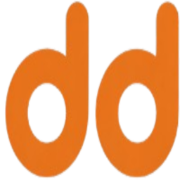
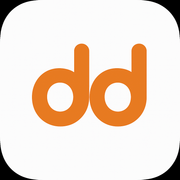
feat: Manifest 개선 (#294) (#299)
* feat: PWA Manifest 개선 - maskable icons, screenshots, shortcuts 추가 (#294)

* remove: 필요없는 스크린샷 이미지 제거 (#294)

* chore: 아이콘 이미지 고품질로 변경 (#294)

* chore: viewport 기본 테마 색상 수정 (#294)

* fix: 과한 설정값 제거 및 관련 주석 추가 (#294)

diff --git a/apps/web/app/manifest.ts b/apps/web/app/manifest.ts
@@ -1,26 +1,100 @@
 import type { MetadataRoute } from 'next';
 
 export default function manifest(): MetadataRoute.Manifest {
+  const deployUrl = process.env.NEXT_PUBLIC_DEPLOY_URL;
+
   return {
+    // 앱 기본 정보
     name: 'DDIP(띱)',
     short_name: 'DDIP',
     description:
       '띱! 먼저 가져가는 사람이 임자! 하향식 경매 시스템을 통해 중고 물품을 거래할 수 있는 플랫폼입니다.',
-    start_url: '/',
+    lang: 'ko',
+
+    // 설치 식별
+    id: deployUrl ? deployUrl + '/' : '/',
+    start_url: '/?source=pwa', // pwa로 진입했는지 감지 여부
+    scope: '/',
+
+    // 실행 모드
     display: 'standalone',
-    background_color: '#ffffff',
-    theme_color: '#ee8e1f',
     orientation: 'portrait',
+
+    // 테마
+    background_color: '#ffffff',
+    theme_color: '#f7cb98',
+
+    // 서비스 분류 (SEO + 일부 브라우저 UX)
+    categories: ['shopping', 'lifestyle'],
+
+    // 아이콘
     icons: [
       {
         src: '/images/android-chrome-192x192.png',
         sizes: '192x192',
         type: 'image/png',
+        purpose: 'maskable',
+      },
+      {
+        src: '/images/android-chrome-192x192.png',
+        sizes: '192x192',
+        type: 'image/png',
+        purpose: 'any',
       },
       {
         src: '/images/android-chrome-512x512.png',
         sizes: '512x512',
         type: 'image/png',
+        purpose: 'maskable',
+      },
+      {
+        src: '/images/android-chrome-512x512.png',
+        sizes: '512x512',
+        type: 'image/png',
+        purpose: 'any',
+      },
+    ],
+
+    // 바로가기 (주요 페이지)
+    shortcuts: [
+      {
+        name: '상품 등록하기',
+        short_name: '등록',
+        description: '새로운 상품을 빠르게 등록합니다',
+        url: '/products/register',
+        icons: [
+          {
+            src: '/images/android-chrome-192x192.png',
+            sizes: '192x192',
+            type: 'image/png',
+          },
+        ],
+      },
+      {
+        name: '내 채팅',
+        short_name: '채팅',
+        description: '채팅 목록을 확인합니다',
+        url: '/chat/rooms',
+        icons: [
+          {
+            src: '/images/android-chrome-192x192.png',
+            sizes: '192x192',
+            type: 'image/png',
+          },
+        ],
+      },
+      {
+        name: '마이페이지',
+        short_name: '마이',
+        description: '프로필과 판매 내역을 확인합니다',
+        url: '/mypage',
+        icons: [
+          {
+            src: '/images/android-chrome-192x192.png',
+            sizes: '192x192',
+            type: 'image/png',
+          },
+        ],
       },
     ],
   };

diff --git a/apps/web/app/layout.tsx b/apps/web/app/layout.tsx
@@ -19,7 +19,7 @@ export const metadata: Metadata = {
 };
 
 export const viewport: Viewport = {
-  themeColor: '#ee8e1f',
+  themeColor: '#f7cb98',
 };
 
 const notoSansKR = localFont({
